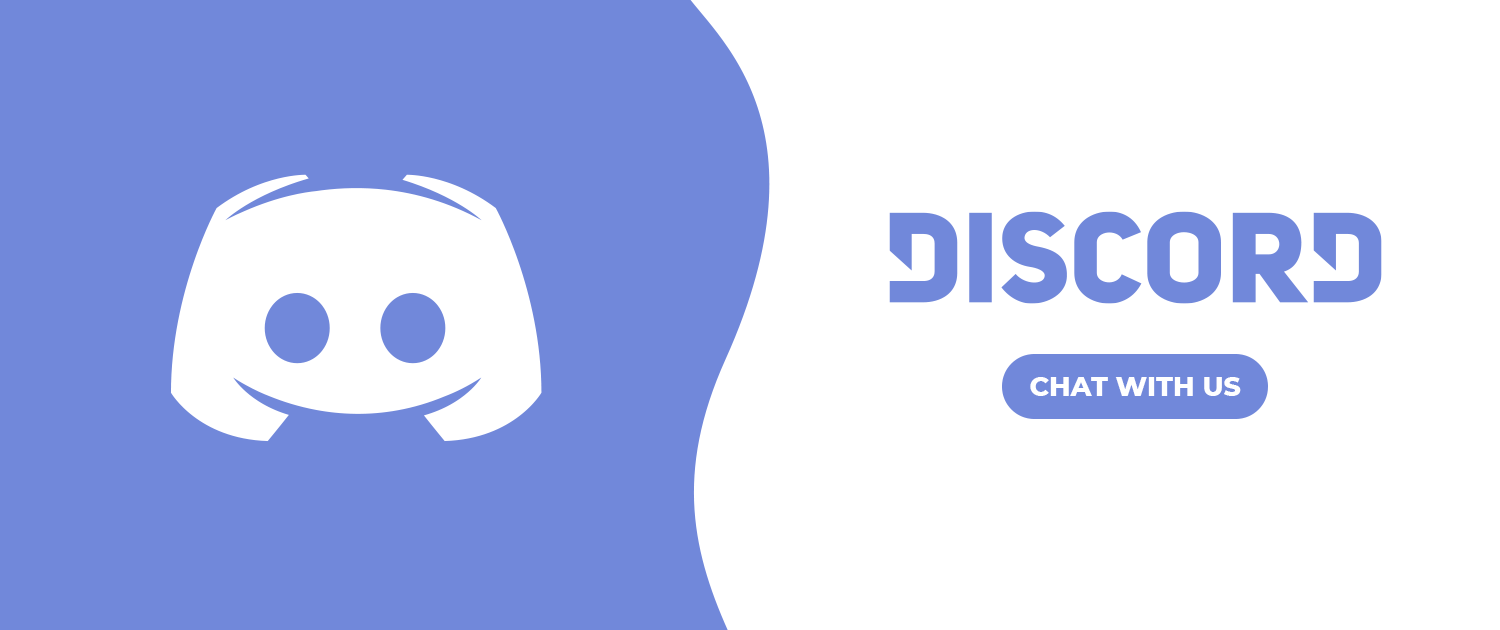
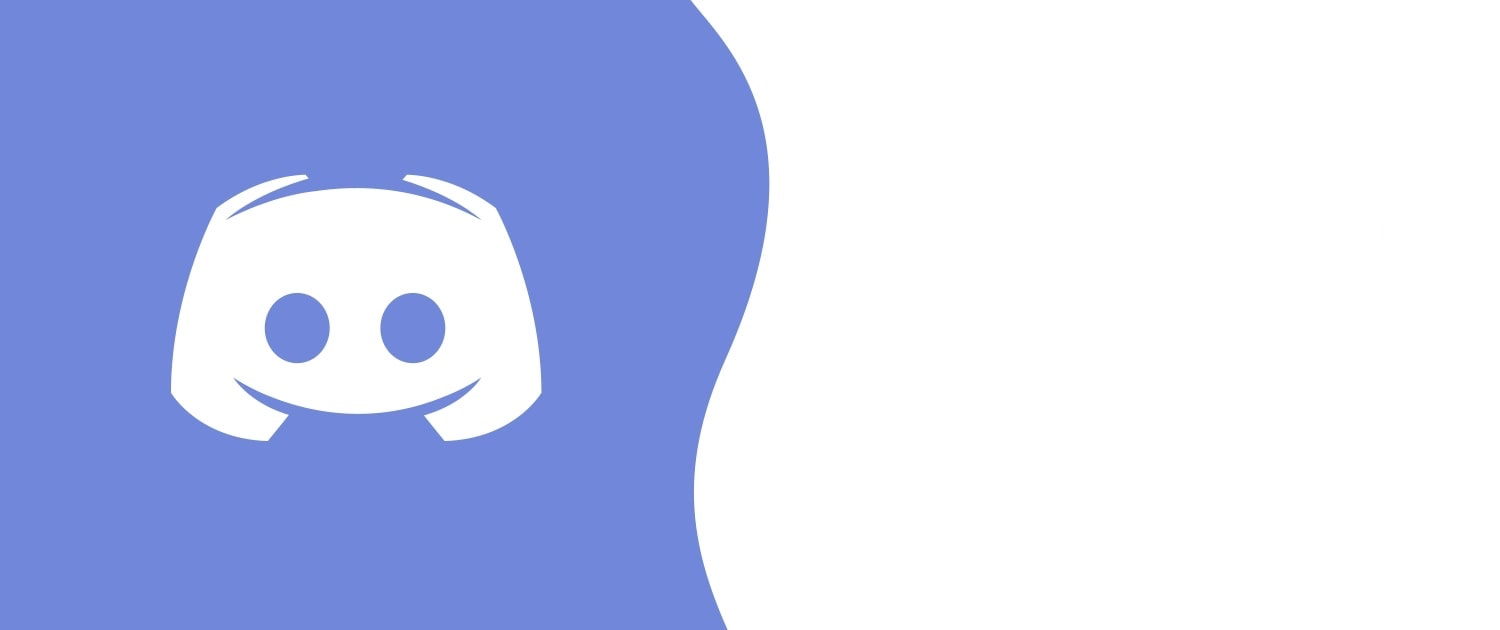
added insta, and facebook headers

Changed region(s): [[0.5827, 0.3317, 0.92, 0.4825], [0.644, 0.5429, 0.8587, 0.6635]]

diff --git a/content/home/slider.md b/content/home/slider.md
@@ -23,7 +23,7 @@ height = "450px"
   # Overlay a color or image (optional).
   #   Deactivate an option by commenting out the line, prefixing it with `#`.
   overlay_color = "#7289DA"  # An HTML color value.
-  overlay_img = "headers/Discord-Slider.jpg"  # Image path relative to your `static/img/` folder.
+  overlay_img = "headers/Discord-Slider.png"  # Image path relative to your `static/img/` folder.
   overlay_filter = 0  # Darken the image. Value in range 0-1.
 
   # Call to action button (optional).
@@ -35,20 +35,30 @@ height = "450px"
   cta_icon = "discord"
 
 [[item]]
-  title = "Left"
-  content = "I am left aligned :smile:"
-  align = "left"
+  title = ""
+  content = ""
+  align = "right"
 
   overlay_color = "#555"  # An HTML color value.
-  overlay_img = ""  # Image path relative to your `static/img/` folder.
-  overlay_filter = 0.5  # Darken the image. Value in range 0-1.
+  overlay_img = "headers/Facebook-Slider.PNG"  # Image path relative to your `static/img/` folder.
+  overlay_filter = 0 
+  
+  cta_label = "LIKE US"
+  cta_url = "http://bit.ly/ACMW-discord"
+  cta_icon_pack = "far"
+  cta_icon = "thumbs-up" # Darken the image. Value in range 0-1.
 
 [[item]]
-  title = "Right"
-  content = "I am right aligned :smile:"
+  title = ""
+  content = ""
   align = "right"
 
   overlay_color = "#333"  # An HTML color value.
-  overlay_img = ""  # Image path relative to your `static/img/` folder.
-  overlay_filter = 0.5  # Darken the image. Value in range 0-1.
+  overlay_img = "headers/Instagram-Slider.PNG"  # Image path relative to your `static/img/` folder.
+  overlay_filter = 0
+  
+  cta_label = "FOLLOW US"
+  cta_url = "http://bit.ly/ACMW-discord"
+  cta_icon_pack = "fab"
+  cta_icon = "instagram"  # Darken the image. Value in range 0-1.
 +++
